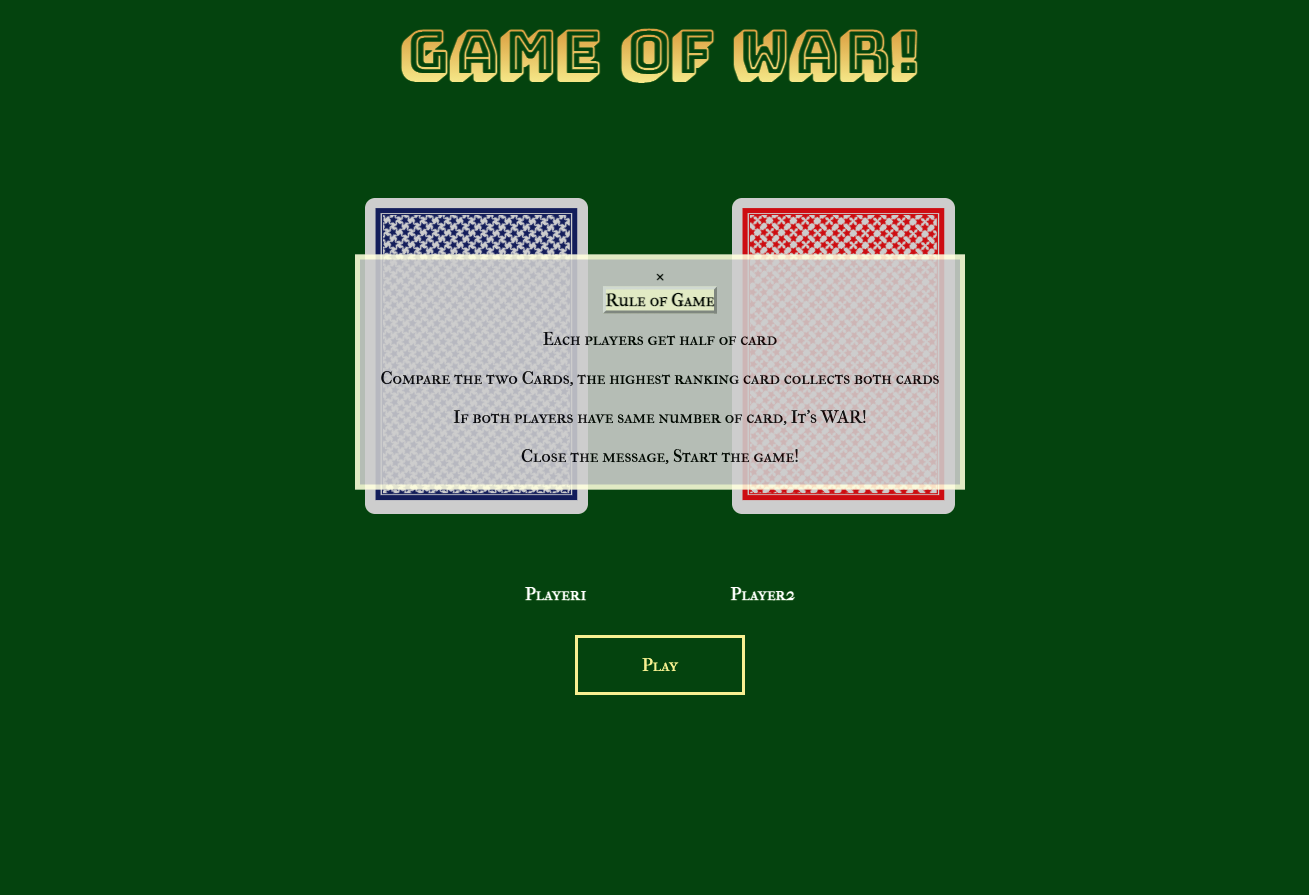
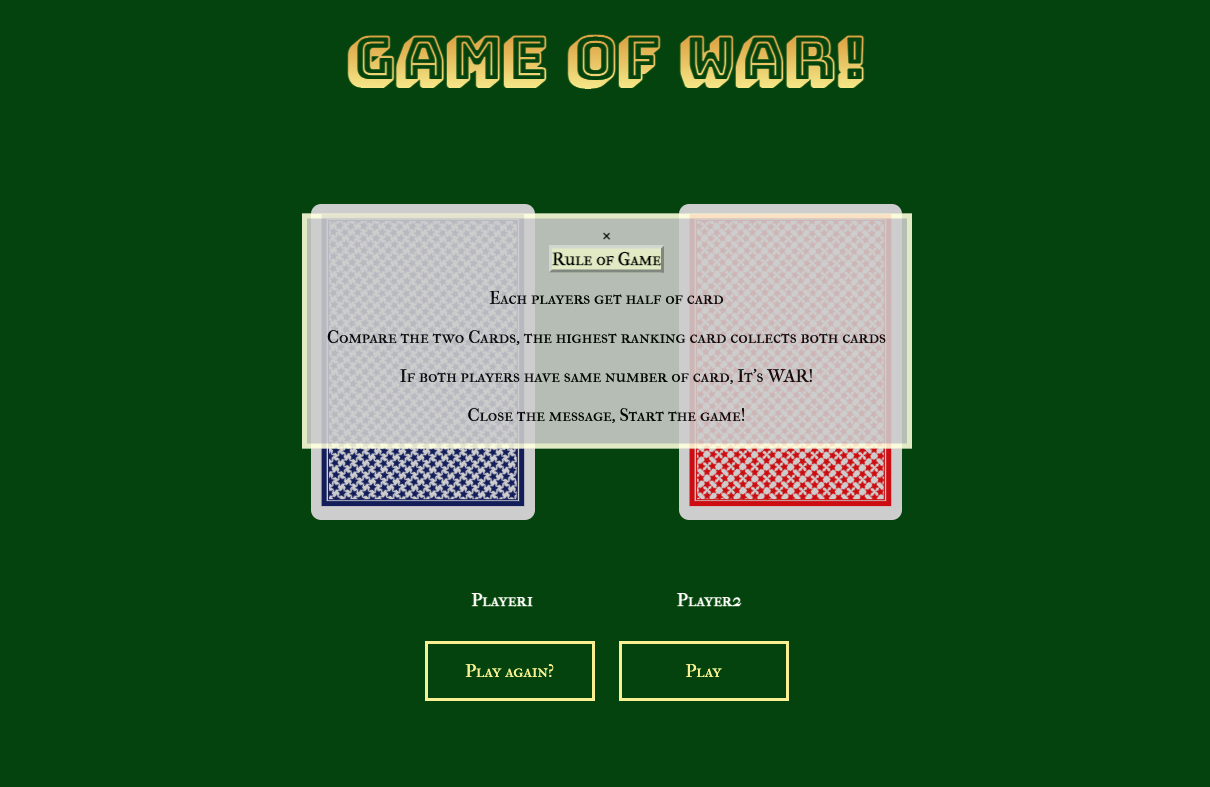
game of war

diff --git a/js/main.js b/js/main.js
@@ -142,8 +142,15 @@ let nextP = document.getElementById("playBtn");
 nextP.addEventListener('click',play)
 let hideBtn = document.querySelector(".closeTab");
 hideBtn.addEventListener('click',hide)
+let restartB = document.getElementById("resetBtn");
+restartB.addEventListener('click',newG)
 
 const styles = [cardV.hearts,cardV.spades,cardV.diamonds,cardV.clubs];
+
+function newG () {
+    location.reload();
+}
+
 
 function hide() {
     document.querySelector("#alertTab").style.display='none';
@@ -217,5 +224,3 @@ function winnerEnd (scoreP1,scoreP2) {
         
     }
 }
-
-   

diff --git a/index.html b/index.html
@@ -39,10 +39,10 @@
                                     </div>
                                 <div id='gameBtn'>  
                                     <!-- <button id='shuffleBtn'>Shuffle card</button> -->
+                                    <button id='resetBtn' onclick="newG()">Play again?</button>
                                     <button id='playBtn'>Play</button>
                                 </div>
                 </div>
             </div>    
 </body>
 </html>
-

diff --git a/css/style.css b/css/style.css
@@ -43,7 +43,8 @@ h1 {
 } 
 
 #shuffleBtn,
-#playBtn
+#playBtn,
+#resetBtn
  {
     background-color: #004D00;
     color:#F9F295;

diff --git a/README.md b/README.md
@@ -16,7 +16,11 @@ Technologies Used
 - HTML
 - CSS
 
-Getting Started
+Getting Started https://jinnyyyyy.github.io/Game-of-WAR-/
+
+Instruction Pressed the play button to play. On the top, It will let you know which player is winning. when player reach the certain number, game over
 
 Next Step
+
+Add the rule of game messages, Seperated button for play and restart.
 
